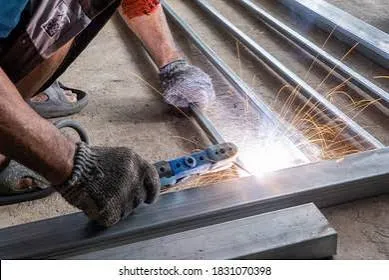
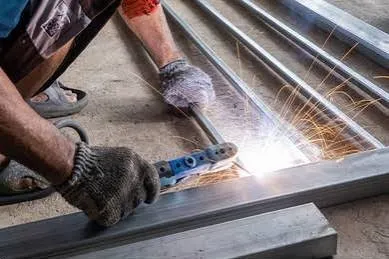
fase-3h: sostituisce immagine categoria Ferro (rimosso watermark)
Il sorgente materiali/categorie_prodotti/ferro.jpeg è stato aggiornato
dal cliente (commit e5df1a0) con una versione senza watermark Shutterstock.
Rigenerato src/assets/categorie-materiale/ferro.webp con lo script
esistente scripts/optimize-categorie-materiale-images.mjs. Nessuna
modifica di codice: nome file invariato, cambia solo il contenuto.

diff --git a/SPEC.md b/SPEC.md
@@ -44,6 +44,7 @@ Home, Chi Siamo, Prodotti, Galleria, Contatti, Richiedi Preventivo
 - 2026-08-04: Fase 3h: 3 foto per materiale (ferro, acciaio, alluminio) fornite dal cliente in `materiali/categorie_prodotti/{slug}.jpeg` (nomi file già coincidenti con lo slug, nessuna mappa di rinomina necessaria a differenza di Fase 3f), ottimizzate in WebP via nuovo `scripts/optimize-categorie-materiale-images.mjs` (stesso pattern di `optimize-prodotti-images.mjs`), output in `src/assets/categorie-materiale/{slug}.webp`, larghezza max 1200px, qualità 80: 84 KB → 80 KB totali. Sorgenti originali committate in git come già `materiali/foto-prodotti/`.
 - 2026-08-04: Fase 3h: la sezione "Le nostre lavorazioni" in Home mostra ora 3 card per materiale (Ferro, Acciaio, Alluminio, nuovo `src/data/materiali.js`) invece delle 5 categorie prodotto (`data/prodotti.js`, invariato, resta usato solo da `/prodotti` e dal form Preventivo). Le 3 card linkano genericamente a `/prodotti` (nessun anchor `#slug`, che esiste solo per le 5 categorie prodotto): restano cliccabili come tutte le altre card della Home, invece di introdurre un pattern "card non cliccabile" nuovo. `CategoryCard.jsx` esteso con due prop opzionali — `to` (override della destinazione, default invariato `/prodotti#${slug}` se omesso) e `description` (paragrafo opzionale sotto il titolo) — senza impatto sull'uso esistente per le 5 categorie prodotto. Testi delle 3 card in nuovo namespace dizionario `home.lavorazioni.{ferro,acciaio,alluminio}`, visibili nella card stessa (non solo alt text), nel rispetto della regola "artigianale solo per il ferro": presente nel testo Ferro, assente in Acciaio e Alluminio.
 - 2026-08-04: Fase 3h: aggiornato `prodotti.pageDescription` (IT/SCN) per citare esplicitamente ferro, acciaio e alluminio, nel rispetto della regola di copy ("tecnica artigianale"/"artigiana" riferita solo al ferro). Le 5 categorie sotto l'intro (`ZigZagBlock` da `data/prodotti.js`) restano invariate.
+- 2026-08-02: Sostituita immagine categoria Ferro in Home con versione senza watermark fornita dal cliente
 - 2026-08-03: Fase 6 (feedback UAT): rivista la decisione precedente sul logo — Antonino ha chiesto la rimozione dello sfondo bianco (che appariva come un "adesivo" separato su Navbar/Hero) e un logo più grande in Navbar. `scripts/crop-logo.mjs` ora applica una trasparenza per chiave colore (alpha = distanza dal bianco per canale, con decontaminazione del colore per evitare aloni chiari sui bordi anti-aliasati) invece del semplice ritaglio con sfondo bianco pieno. Il chip crema dietro al logo nel footer scuro resta invariato: la trasparenza risolve il problema su sfondo chiaro (Navbar/Hero), ma su sfondo scuro il logo (testo blu/nero) resta illeggibile senza una base chiara dietro. Logo Navbar ingrandito da `h-8` a `h-16`, padding verticale header da `py-3` a `py-4` per ospitarlo comodamente.
 
 ## Fuori scope
@@ -57,7 +58,7 @@ Express, MongoDB, autenticazione, CMS, e-commerce
 - Recuperare/aggiungere una foto col padre (fondatore) in officina
 - Creare/collegare una scheda Google Business Profile per l'officina
 - Numero di telefono provvisorio/fake (366 547 2502) in uso in data/contatti.js: sostituire con il numero reale dell'officina appena disponibile
-- Foto "Ferro" della sezione materiale in Home (`materiali/categorie_prodotti/ferro.jpeg`) è un'anteprima Shutterstock a bassa risoluzione (389×280px) con watermark "shutterstock.com" ancora visibile nell'immagine pubblicata: pubblicata temporaneamente su richiesta di Antonino (2026-08-04), da sostituire con una foto reale/licenziata appena disponibile. Anche `acciaio.jpeg`/`alluminio.jpeg` sembrano foto stock generiche (non dell'officina): da valutare se sostituire con foto reali quando disponibili
+- ~~Foto "Ferro" con watermark Shutterstock~~ RISOLTO 2026-08-02: sostituita con versione ritagliata senza watermark fornita dal cliente. Restano `acciaio.jpeg`/`alluminio.jpeg`, foto stock generiche (non dell'officina): da valutare se sostituire con foto reali quando disponibili
 - Sezione "Dicono di noi" in Home: versione solo-link a Google aggiunta in Fase 3g; arricchimento con recensioni vere selezionate (stelle, citazioni clienti) resta da valutare quando il cliente le sceglierà
 - Prenotazione interventi online — da valutare
 - Lightbox per la Galleria — da valutare (le immagini `full/` sono già predisposte, vedi decisione Fase 3a)
